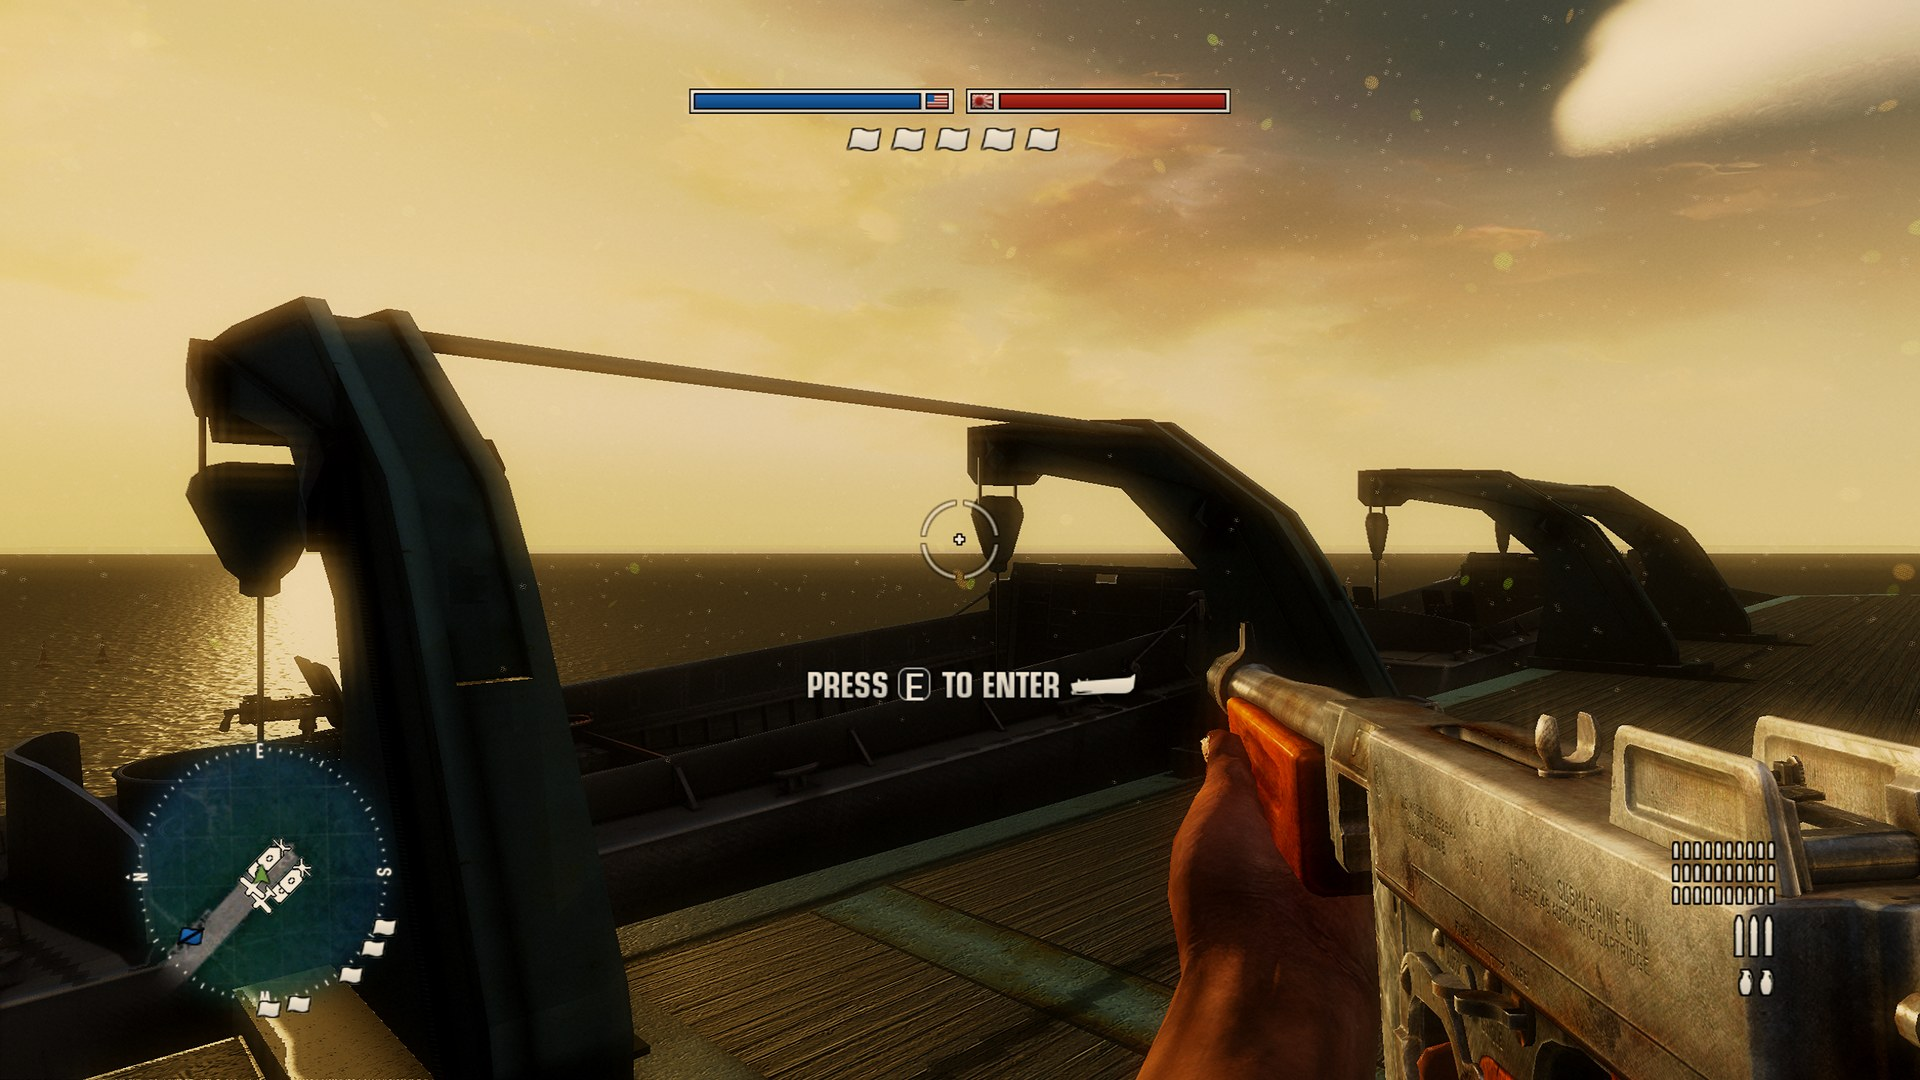
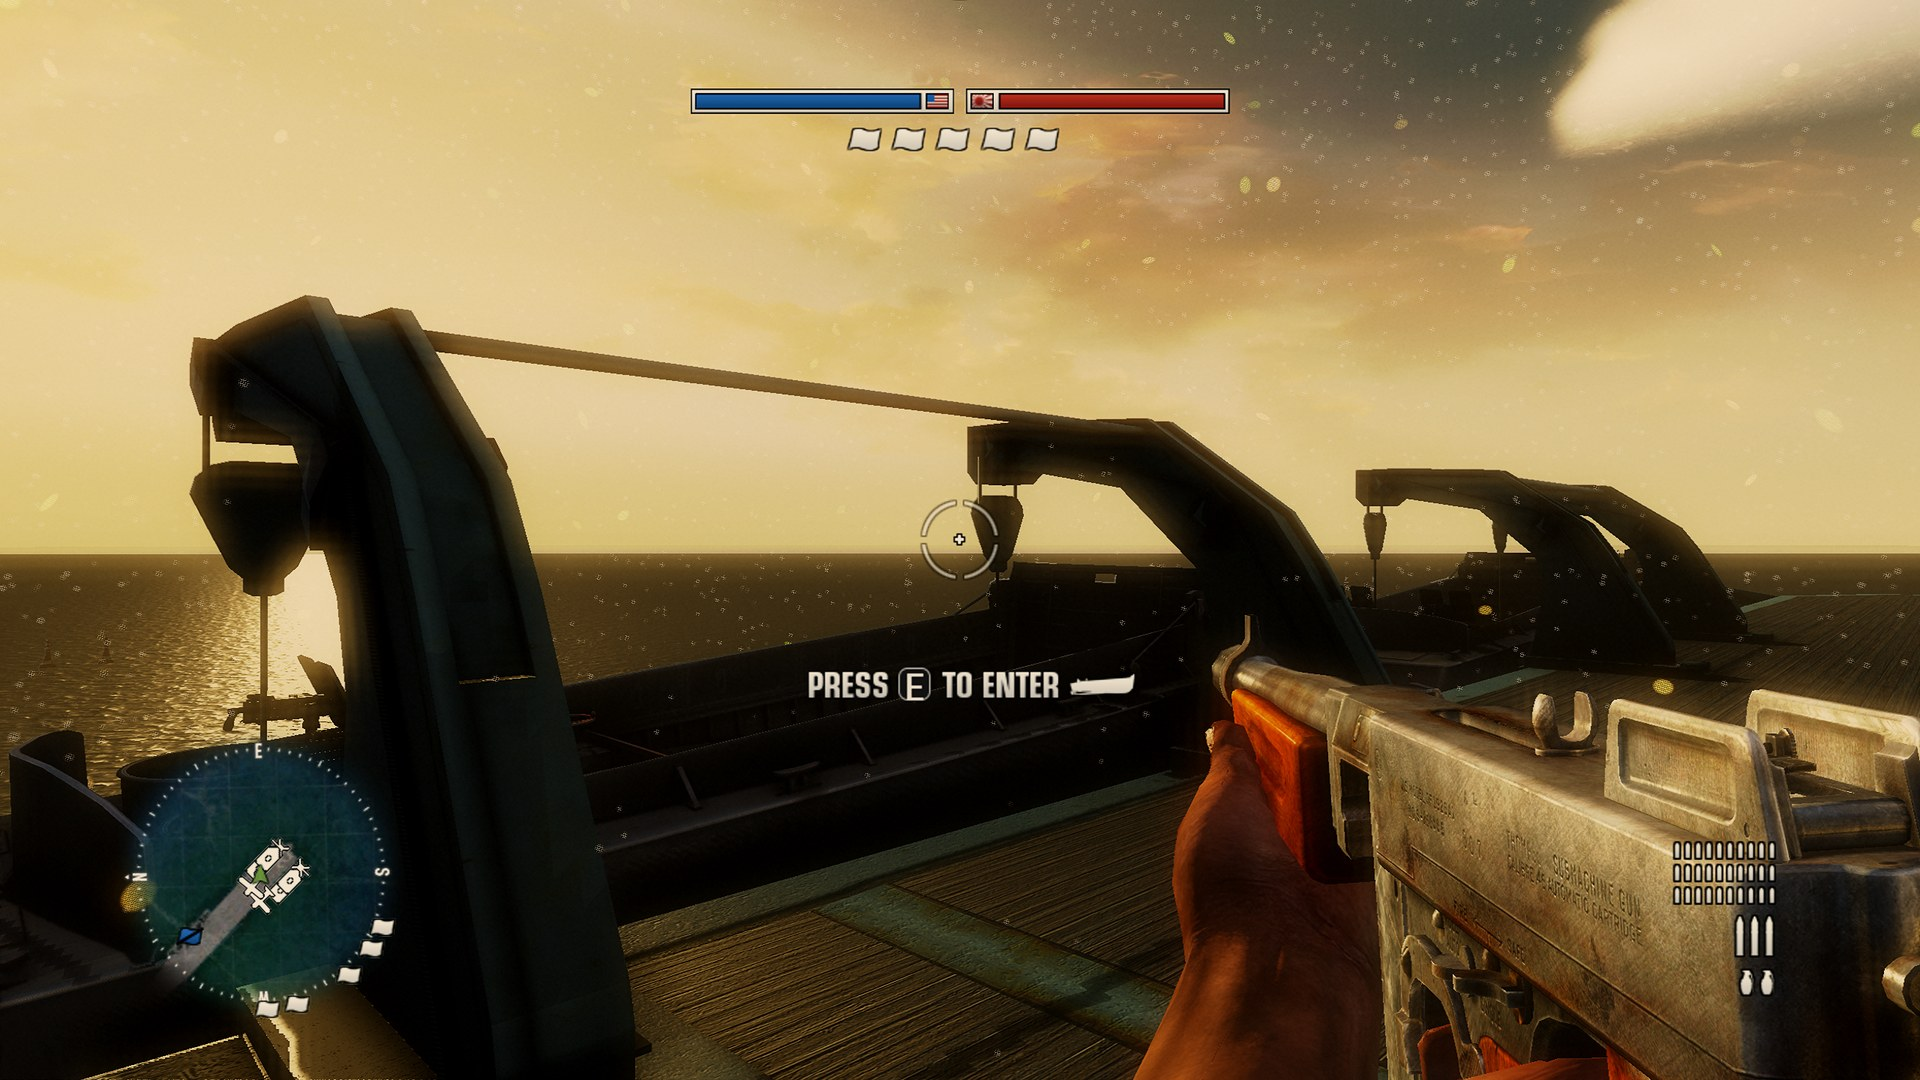
README: clean Original shots, Ultra at its highest settings, rain and the looks
Originals from a clean profile (no effects), Ultra with every effect at its
highest, ray tracing and the HD texture pack; rain on Guadalcanal and Wake;
a GIF of the same view in each look.

diff --git a/README.md b/README.md
@@ -18,7 +18,7 @@ The latest version of the launcher can be found in the [Releases](https://github
 **Linux:** `BattlefieldLauncher-<version>-x86_64.AppImage` works the same way: `chmod +x` it, put it next to your game files and start it. It builds the games with `bf1943-recomp/build_linux.sh` and lists the packages to install if any are missing. **macOS:** experimental and untested, built from source (see [Building](#macos-experimental-untested)).
 
 ## Original vs Ultra
-Left the original look (`Stock`), right the **Enhanced** look with every effect at **Ultra** and the HD texture pack, from the same spawn.
+Left the original game as it was on the Xbox 360 (`Stock`), right the **Enhanced** look with every effect at its highest setting, ray tracing and the HD texture pack, from the same spawn.
 
 | Original | Ultra |
 |---|---|
@@ -28,6 +28,16 @@ Left the original look (`Stock`), right the **Enhanced** look with every effect 
 | <img alt="Guadalcanal, original" src="docs/images/cmp_guadalcanal_original.jpg" /> | <img alt="Guadalcanal, ultra" src="docs/images/cmp_guadalcanal_ultra.jpg" /> |
 
 <img width="960" alt="Guadalcanal on Ultra, the palms in the wind" src="docs/images/bf1943_ultra.gif" />
+
+**Rain** (`/weather rain`, or `--weather rain` on a server): falling rain, drops on the lens, an overcast sky, and puddles on flat ground that mirror what stands over them.
+
+| Guadalcanal | Wake Island |
+|---|---|
+| <img alt="Rain on Guadalcanal's airfield" src="docs/images/rain_guadalcanal.jpg" /> | <img alt="Rain on a Wake Island carrier" src="docs/images/rain_wake.jpg" /> |
+
+**Looks**: the same view in each of the looks (**Settings → Graphics → Look**).
+
+<img width="960" alt="The looks: Enhanced, Vivid, Toon, Noir and WW2" src="docs/images/bf1943_looks.gif" />
 
 ## Features
 ### Display
@@ -72,7 +82,7 @@ Left the original look (`Stock`), right the **Enhanced** look with every effect 
 - **List on the Internet** - Shows a server in everyone's **Join Game** list through the master server: `PUBLISH=1` in the start script, `--publish`, or **List on the internet** when hosting from the game. The router must pass UDP ports 1003 and 19430 to the server.
 - **Bots** - Computer players on your server (`--bots N`), half on each team: they capture flags, fight, sprint, drive landing craft, jeeps and tanks, and fly planes. They go in squads of four to the same flag, the first leading and the others staying with it. They play inside the server itself, with no extra copies of the game running. Their navigation meshes are made on your PC from your game files the first time a map needs one.
 - **Hardcore** - A server setting (**HOST GAME**, the launcher's **SERVER** page, or `--hardcore`): no HUD or crosshair for anyone, and fewer hits to kill. Hardcore servers are marked in **JOIN GAME**.
-- **Chat and Admin Commands** - <kbd>T</kbd> opens a chat line. The host (or a dedicated server's console) can type `/players`, `/kick`, `/ban`, `/unban`, `/map`, `/bots`, `/weather` and `/time`; joiners can use them after `/login <admin password>` (`--admin-password`). `/help` lists them all.
+- **Chat and Admin Commands** - <kbd>T</kbd> opens a chat line. The host (or a dedicated server's console) can type `/players`, `/kick`, `/ban`, `/unban`, `/map`, `/bots`, `/weather clear|rain` and `/time dawn|day|sunset|night|<hours>` (everyone in the match sees the change); joiners can use them after `/login <admin password>` (`--admin-password`). `/help` lists them all.
 - **Spectate** - <kbd>F4</kbd> (or `--spectate`) watches the match on the host's PC: <kbd>N</kbd> / <kbd>B</kbd> to follow the next or previous player, <kbd>Space</kbd> for a free camera, the wheel to zoom.
 - **Match Replays** - A host records every match to `replays/`. Play one back with `--replay <file>`, and fly around it with a free camera or follow a player, paused, rewound or up to 16x faster.
 - **Learning Bots** - Every server learns from its matches where players go, where they die and where they win fights, per map. Bots use it to hold good spots at a flag and to watch where enemies usually come from, and what servers learned can be merged into the next version (`tools/bot_knowledge.py`).
